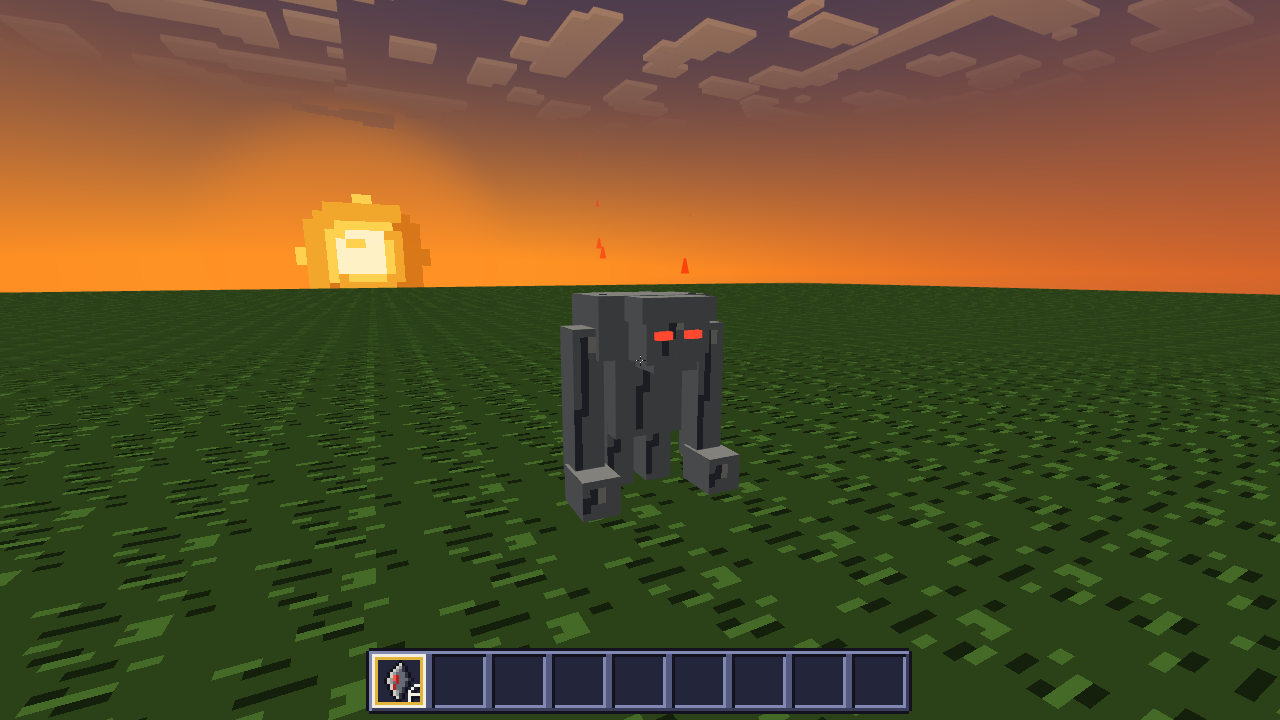
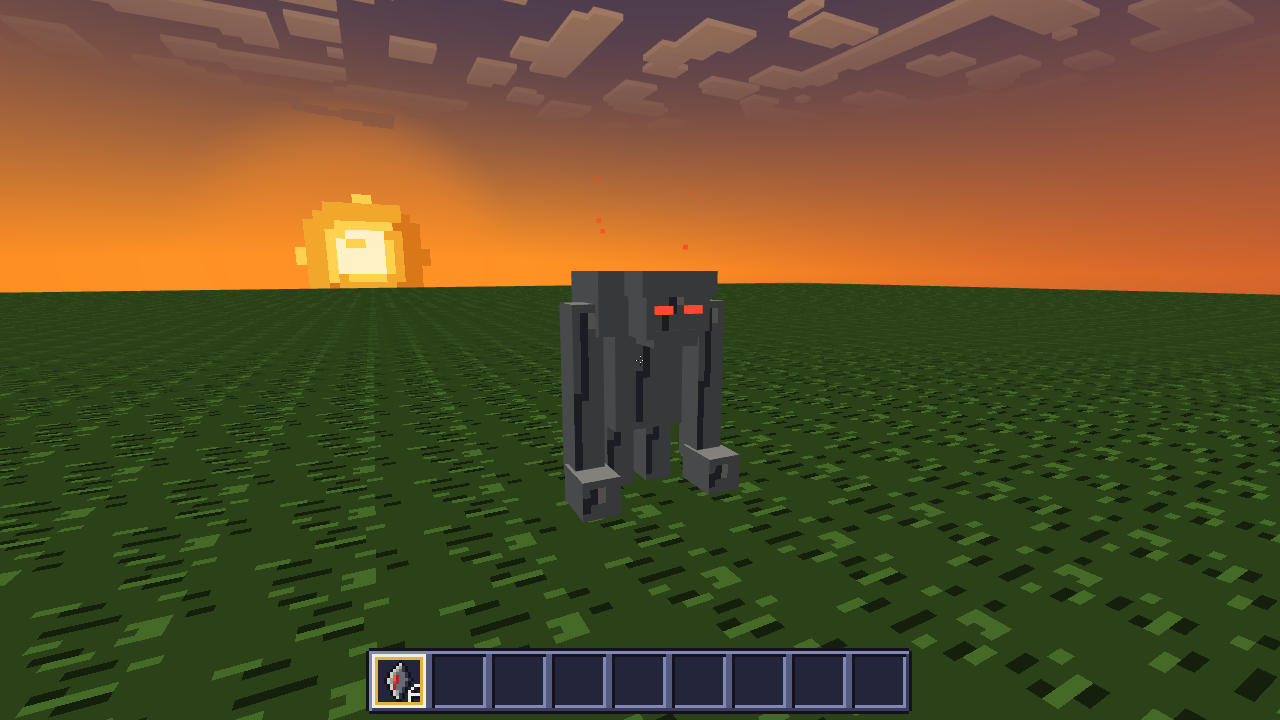
M13h: make Cinderwraith taller and brighten square embers

diff --git a/src/entity/mobs/cinderwraith.ts b/src/entity/mobs/cinderwraith.ts
@@ -30,9 +30,9 @@ const DEG = Math.PI / 180;
 const arm = (name: string, x: number): PartSpec => ({
   name,
   parent: 'body',
-  pivot: [x + 2, 23, 0],
+  pivot: [x + 2, 26, 0],
   cubes: [
-    { from: [x, 3, -1], size: [4, 20, 5] },
+    { from: [x, 3, -1], size: [4, 23, 5] },
     { from: [x - 0.5, 0, 1], size: [5, 5, 7] },
   ],
 });
@@ -42,37 +42,37 @@ export const CINDER_MODEL = buildModel({
   parts: [
     {
       name: 'body',
-      pivot: [0, 10, -2],
+      pivot: [0, 11, -2],
       cubes: [
-        { from: [-5, 8, -6], size: [10, 13, 9] },
-        { from: [-8, 19, -5], size: [16, 8, 10] },
-        { from: [-5, 23, -7], size: [10, 4, 3] },
+        { from: [-5, 9, -6], size: [10, 15, 9] },
+        { from: [-8, 22, -5], size: [16, 8, 10] },
+        { from: [-5, 26, -7], size: [10, 4, 3] },
       ],
     },
     {
       name: 'head',
       parent: 'body',
-      pivot: [0, 22, 5],
+      pivot: [0, 25, 5],
       cubes: [
-        { from: [-4, 19, 3], size: [8, 7, 7] },
-        { from: [-5, 24, 6], size: [10, 3, 5] },
-        { from: [-3, 18, 5], size: [6, 2, 5] },
+        { from: [-4, 22, 3], size: [8, 7, 7] },
+        { from: [-5, 27, 6], size: [10, 3, 5] },
+        { from: [-3, 21, 5], size: [6, 2, 5] },
       ],
     },
     {
       name: 'eyes',
       parent: 'head',
-      pivot: [0, 22, 10],
+      pivot: [0, 25, 10],
       emissive: true,
       cubes: [
-        { from: [-3, 22, 10], size: [2, 1, 1] },
-        { from: [1, 22, 10], size: [2, 1, 1] },
+        { from: [-3, 25, 10], size: [2, 1, 1] },
+        { from: [1, 25, 10], size: [2, 1, 1] },
       ],
     },
     arm('arm_r', -11),
     arm('arm_l', 7),
-    { name: 'leg_r', pivot: [-3, 11, -3], cubes: [{ from: [-5, 0, -6], size: [4, 11, 6] }] },
-    { name: 'leg_l', pivot: [3, 11, -3], cubes: [{ from: [1, 0, -6], size: [4, 11, 6] }] },
+    { name: 'leg_r', pivot: [-3, 13, -3], cubes: [{ from: [-5, 0, -6], size: [4, 13, 6] }] },
+    { name: 'leg_l', pivot: [3, 13, -3], cubes: [{ from: [1, 0, -6], size: [4, 13, 6] }] },
   ],
   walk: {
     maxSwing: 10 * DEG,
@@ -210,7 +210,7 @@ export class CinderSight {
         0,
         0,
         0,
-        [-4, 19, 3, 4, 26, 10],
+        [-4, 22, 3, 4, 29, 10],
         this.boxHit,
       ) ||
       this.boxHit.distance > 64
@@ -221,7 +221,7 @@ export class CinderSight {
 
   sees(player: MobPlayer): boolean {
     const p = this.mob.runtime.ecs.get(this.mob.id, TransformC)!.pos;
-    const origin: Vec3 = [p[0], p[1] + 1.4, p[2]];
+    const origin: Vec3 = [p[0], p[1] + 25.5 / 16, p[2]];
     const end: Vec3 = [player.pos[0], player.pos[1] + player.height * 0.85, player.pos[2]];
     const d = vec3.distance(origin, end);
     return !this.ray.cast(
@@ -294,7 +294,7 @@ export const CINDER_DEFINITION: CreatureDefinition = {
   category: 'hostile',
   health: 30,
   width: 0.95,
-  height: 1.75,
+  height: 1.95,
   speed: 0.14,
   model: () => CINDERWRAITH,
   goals: (mob) => [
@@ -313,7 +313,7 @@ export const CINDER_DEFINITION: CreatureDefinition = {
     const forward = 0.0625;
     const spark: Vec3 = [
       t.pos[0] + Math.sin(t.yaw) * side + Math.cos(t.yaw) * forward,
-      t.pos[1] + 27 / 16,
+      t.pos[1] + 30 / 16,
       t.pos[2] - Math.cos(t.yaw) * side + Math.sin(t.yaw) * forward,
     ];
     ctx.particles.ember(id, spark, ctx.random);

diff --git a/tests/unit/m13h-particles.test.ts b/tests/unit/m13h-particles.test.ts
@@ -11,7 +11,7 @@ import { BreakParticles } from '../../src/render/particles';
 import type { GLWrapper } from '../../src/render/gl';
 import type { PlayerController } from '../../src/engine/player-controller';
 
-it('M13h batches red tapered embers with alpha fading and restores blending', () => {
+it('M13h batches small bright square embers with alpha fading and restores blending', () => {
   const tiles = new Map<string, Uint8Array>();
   for (const [id, gen] of Object.entries(textureGenerators)) {
     const tile = gen(42);
@@ -47,16 +47,21 @@ it('M13h batches red tapered embers with alpha fading and restores blending', ()
     camera: { yaw: 0, pitch: 0 },
     renderAlpha: 1,
   } as unknown as PlayerController;
-  particles.ember(1, [0.5, 65, 0.5], () => 0.5);
+  // Compare the square near the origin so float32 world-coordinate rounding does not skew its edges.
+  particles.ember(1, [0.5, 0.5, 0.5], () => 0.5);
   expect(renderer.render(controller, mat4.create(), {} as WebGLTexture, 0)).toBe(1);
   expect(draw).toHaveBeenCalledTimes(1);
   expect(draw.mock.calls[0]![2]).toBe(6);
   const data = calls.bufferSubData!.mock.calls[0]![2] as Float32Array;
   const young = data.slice(0, 42);
   expect(young[6]).toBe(-1);
-  // Top narrows to a flame tip and the red shader uses the life fraction as opacity.
-  expect(Math.abs(young[9]! - young[16]!)).toBeLessThan(Math.abs(young[2]! - young[30]!));
-  expect(FS).toContain('vec4(1.0,0.08+0.16*v_light,0.025,v_light)');
+  // All four edges stay equal; the smaller square retains a bright, smooth fade.
+  const width = Math.abs(young[9]! - young[16]!);
+  expect(width).toBeCloseTo(Math.abs(young[2]! - young[30]!), 6);
+  expect(width).toBeCloseTo(Math.abs(young[8]! - young[1]!), 6);
+  expect(width).toBeLessThan(0.05);
+  expect(young[5]).toBeGreaterThan(0.95);
+  expect(FS).toContain('vec4(1.0,0.28,0.12,v_light)');
   for (let n = 0; n < 8; n++) particles.tick();
   renderer.render(controller, mat4.create(), {} as WebGLTexture, 0);
   expect(data[5]).toBeLessThan(young[5]!);

diff --git a/src/render/drops.ts b/src/render/drops.ts
@@ -20,7 +20,7 @@ void main(){v_uv=a_uv;v_light=a_light;v_cutoff=a_cutoff;gl_Position=u_vp*vec4(a_
 export const FS = `#version 300 es
 precision highp float;
 in vec2 v_uv;in float v_light;flat in float v_cutoff;uniform sampler2D u_atlas;out vec4 color;
-void main(){if(v_cutoff<0.0){color=vec4(1.0,0.08+0.16*v_light,0.025,v_light);return;}vec4 tex=texture(u_atlas,v_uv);if(tex.a<v_cutoff)discard;color=vec4(tex.rgb*v_light,1.0);}`;
+void main(){if(v_cutoff<0.0){color=vec4(1.0,0.28,0.12,v_light);return;}vec4 tex=texture(u_atlas,v_uv);if(tex.a<v_cutoff)discard;color=vec4(tex.rgb*v_light,1.0);}`;
 export const FACES: readonly BlockFaceDirection[] = [
   'east',
   'west',
@@ -319,9 +319,19 @@ export class DropRenderer {
           for (let t = 0; t < 6; t++) {
             const corner = INDICES[t]!;
             const top = corner === 1 || corner === 2;
-            const sx = (corner < 2 ? -1 : 1) * (top ? 0.012 : 0.045) * fade;
-            const sy = (top ? 0.12 : -0.045) * fade;
-            this.vertex(x + rx * sx + ux * sy, y + uy * sy, z + rz * sx + uz * sy, 0, 0, fade, -1);
+            const half = 0.022 * (0.6 + 0.4 * fade);
+            const sx = (corner < 2 ? -1 : 1) * half;
+            const sy = (top ? 1 : -1) * half;
+            // A small, hot red square stays bright while drifting, then fades smoothly.
+            this.vertex(
+              x + rx * sx + ux * sy,
+              y + uy * sy,
+              z + rz * sx + uz * sy,
+              0,
+              0,
+              Math.sqrt(fade),
+              -1,
+            );
           }
           continue;
         }

diff --git a/tests/unit/m13h-cinderwraith.test.ts b/tests/unit/m13h-cinderwraith.test.ts
@@ -76,7 +76,7 @@ function headPoint(s: ReturnType<typeof setup>): Vec3 {
   computePose(s.ecs, s.id, 1, pose);
   const p = vec3.transformMat4(
     vec3.create(),
-    [0, 22.5, 10],
+    [0, 25.5, 10],
     pose.subarray(16, 32) as unknown as mat4,
   );
   return [p[0]!, p[1]!, p[2]!];
@@ -102,6 +102,7 @@ describe('M13h registration, art and drops', () => {
     expect(s.ecs.get(s.id, HealthC)!.current).toBe(30);
     expect(s.ecs.get(s.id, MobC)!.category).toBe('hostile');
     expect(s.ecs.get(s.id, BodyC)!.width).toBeLessThanOrEqual(0.95);
+    expect(s.ecs.get(s.id, BodyC)!.height).toBe(1.95);
     expect(s.ecs.get(s.id, BodyC)!.height).toBeLessThanOrEqual(2);
     expect(() => validateModel(CINDER_MODEL)).not.toThrow();
     expect(spawnRules.rules.some((rule) => rule.type === CINDERWRAITH)).toBe(false);

diff --git a/tests/e2e/m13h.spec.ts b/tests/e2e/m13h.spec.ts
@@ -46,7 +46,7 @@ async function lookAtEyes(page: Page, id: number) {
       dz = z - p.pos[2];
     api.look!(
       Math.atan2(dz, dx),
-      Math.atan2(mob.pos[1] + 22.5 / 16 - (p.pos[1] + 1.62), Math.hypot(dx, dz)),
+      Math.atan2(mob.pos[1] + 25.5 / 16 - (p.pos[1] + 1.62), Math.hypot(dx, dz)),
     );
   }, id);
 }

diff --git a/progress/M13h.md b/progress/M13h.md
@@ -4,10 +4,11 @@ Status: incomplete
 Depends on: M13f (plus M13c/M13d and M13e's creature kit, present on the fetched base)
 Full verify: PR CI
 
-Local implementation and verification are complete. Owner publish approval and PR CI are pending. Status becomes verified only after green PR CI.
+Local implementation and local verification are complete, including the owner's visual revision. Owner publish approval and PR CI are pending. Status becomes verified only after green PR CI.
 
-Quick verify (`MILESTONE=M13 npm run verify:quick`): typecheck ✓ · lint ✓ (0 errors, 2 existing warnings) · placeholders ✓ · unit 1124 passed (128 files) · M13 e2e 11 passed (1.4m).
-Touched-milestone e2e (`m06`, `m06b`, `m07`, `m07b`, `m09a`, `m09b`, `m09c`, `m10b`, `m10c`, `m11`, `m11b`, no retries): 53 passed (9.9m).
+Latest quick verify (`MILESTONE=M13 npm run verify:quick`): typecheck ✓ · lint ✓ (0 errors, 2 existing warnings) · placeholders ✓ · unit 1124 passed (128 files) · M13 e2e 11 passed (1.8m).
+Latest particle-rendering e2e (`m07b`, no retries): 4 passed (46.9s).
+Additional integration coverage before the visual revision (`m06`, `m06b`, `m07`, `m07b`, `m09a`, `m09b`, `m09c`, `m10b`, `m10c`, `m11`, `m11b`, no retries): 53 passed (9.9m). The visual revision changes only the Cinderwraith model/behavior heights and the ember branch of the particle pass; those are covered again by the latest M13 and M07b runs.
 M13a has no separate e2e spec; its existing rendering unit tests ran in quick verify, alongside the new emission regressions. The shared Playwright fixture passed its console, request, missing-texture and WebGL error checks.
 The final Cinderwraith e2e run recorded gaze damage at tick 61 (player health 16) and a hurt teleport of 4.12617968101245 blocks to `[1.4874, 65, 4.5]`.
 
@@ -17,13 +18,13 @@ The final Cinderwraith e2e run recorded gaze damage at tick 61 (player health 16
 - [x] Hitting a neutral Cinderwraith provokes it and triggers a teleport of at least four blocks onto solid support with two free air blocks → `tests/e2e/m13h.spec.ts` › "M13h: hitting a neutral Cinderwraith provokes it and teleports at least four blocks to a safe spot".
 - [x] Registration, health, category, collision bounds, model/skin, drops, item texture/icon, gaze rejection (body, away, wall, range), anger expiry, seeded teleport safety, cooldown and lazy installation → `tests/unit/m13h-cinderwraith.test.ts`.
 - [x] Only the eye parts glow; all existing creature models retain their lighting and every entity takes exactly one draw → `tests/unit/m13h-render.test.ts`.
-- [x] Embers are capped, rise, expire, burst at both teleport ends, taper, fade and use the existing particle batch → `tests/unit/m13h-cinderwraith.test.ts` and `tests/unit/m13h-particles.test.ts`.
+- [x] Embers are capped, rise, expire, burst at both teleport ends, stay square, fade and use the existing particle batch → `tests/unit/m13h-cinderwraith.test.ts` and `tests/unit/m13h-particles.test.ts`.
 
 ## Screenshots (docs/screenshots/M13h/)
 
-Both images were generated by the committed Playwright spec and opened for review.
+Both revised images were generated by the committed Playwright spec and opened for review. The character is taller and its embers are smaller, brighter squares.
 
-- `m13-cinderwraith.png`: a broad grey stone creature on grass at sunset, with a low head under a heavy brow, two bright red eyes, long arms resting on large knuckles, dark stepped cracks, and red tapered sparks rising above its shoulders. The sky is orange with the sun at the left. The grey body remains shaded while the eyes and sparks are bright. No magenta textures. Its stocky stone silhouette differs from the bark-and-cloth Hollow in M13f's lineup, which was also opened for comparison.
+- `m13-cinderwraith.png`: a broad grey stone creature on grass at sunset, with a low head under a heavy brow, two bright red eyes, long arms resting on large knuckles, dark stepped cracks, and small bright red square sparks rising above its shoulders. The sky is orange with the sun at the left. The grey body remains shaded while the eyes and sparks are bright. No magenta textures. Its stocky stone silhouette differs from the bark-and-cloth Hollow in M13f's lineup, which was also opened for comparison.
 - `m13-cinderwraith-daylight.png`: a closer view under a blue sky, showing flat ash-grey surfaces, pale upper edges, dark cracks on the torso and arms, the heavy brow, short legs and large knuckles. Red eyes and rising sparks are visible. A Cinder Shard icon appears in the hotbar.
 - Cinder Shard art review: the generated M09a sprite sheet was also opened. Its tile depicts an angular grey stone splinter with a short red seam, a pale top-left rim and a dark edge. It reads without a label and has no visible seams in its 3×3 repeat; the transparent border separates the repeated shapes cleanly.
 
@@ -31,7 +32,7 @@ Both images were generated by the committed Playwright spec and opened for revie
 
 - `src/entity/mobs/cinderwraith.ts`: original model and skin, neutral targeting, posed-head gaze test, retaliation, anger timeout, A* melee pursuit, safe teleport and drops, registered through M13e's creature kit.
 - Per-part emission in the existing entity renderer. A baked vertex flag bypasses world light and face shading only on the eyes. Whole-model emission, used by Glimmer Moths, retains its existing behavior.
-- Red embers in the existing particle pool and submission: shoulder sparks and teleport bursts, upward drift, tapered shape, shrinking and alpha fade. No extra global tick or frame system.
+- Red embers in the existing particle pool and submission: shoulder sparks and teleport bursts, upward drift, small square shape, shrinking and a brighter alpha fade. No extra global tick or frame system.
 - Cinder Shard material registry entry and a code-drawn chipped stone/red seam texture, reused by the automatic inventory icon sheet. No recipe and no block-state ID edits.
 - Fixed the new shard generator's seed variation: seam position and bend height now vary independently, satisfying M09a's existing seed checks. `tests/unit/m09a-registry.test.ts` is unchanged. The owner authorized fixes confined to new M13h code without further pauses.
 
@@ -63,3 +64,9 @@ Both images were generated by the committed Playwright spec and opened for revie
 - Cinder-specific targeting updates during goal selection, before melee continuation is checked. This lets calming stop navigation immediately without leaving melee with a vanished target.
 - Gaze scratch is allocated only when a Cinderwraith's goals are first built. Per-type particles run through its definition tick, so worlds without Cinderwraiths emit none and install no Cinderwraith system.
 - Teleport resets position interpolation, velocity and navigation; paths never interpolate across the jump. Landings are centered in a loaded column's air cell above full solid support.
+
+## Owner visual revision
+
+- Raised the shoulder ridge and head while lengthening the torso, arms and legs. The broad shoulder width and ground-level knuckles remain, with collision height 1.95 (below the original two-block maximum).
+- Updated the head gaze box, eye-height test aim, sight origin and shoulder spark emission points to match. The M13h particle unit test now checks equal square edges, smaller size and sustained brightness.
+- Replaced tapered embers with smaller square sparks, made their red colour hotter, and used a slower opacity fade so the small squares remain bright. Particle caps and batching are unchanged.

diff --git a/decisions/M13h-cinderwraith.md b/decisions/M13h-cinderwraith.md
@@ -3,9 +3,9 @@
 ## Owner decisions
 
 - Built with M13e's `registerCreature`, `buildModel`, `SkinPainter`, `PRIORITY` and `definition.drops`.
-- Original Appendix B design: hunched ash-grey cinder stone, broad shoulders, long knuckle-walking arms, heavy brow, two glowing red eyes, and rising red embers. Flat, low-noise regions use 2–3 stone shades and deliberate stepped cracks (ART.md). Health 30; collision 0.95 × 1.75 blocks.
+- Original Appendix B design: hunched ash-grey cinder stone, broad shoulders, long knuckle-walking arms, heavy brow, two glowing red eyes, and rising red embers. Flat, low-noise regions use 2–3 stone shades and deliberate stepped cracks (ART.md). Health 30; collision 0.95 × 1.95 blocks.
 - Eyes alone use per-part emission. One additional baked vertex float selects full-bright lighting for those parts, in the same single draw. Legacy whole-model `emissive` still supplies white world light with the original face shading. Existing models default to zero part emission.
-- Embers reuse the existing particle pool and batch: red tapered sparks drift up, shrink and alpha-fade. At most 24 live sparks per Cinderwraith; teleport emits at departure and arrival. No separate ember system, pool, global scan or frame callback is installed.
+- Embers reuse the existing particle pool and batch: small bright red square sparks drift up, shrink and alpha-fade. At most 24 live sparks per Cinderwraith; teleport emits at departure and arrival. No separate ember system, pool, global scan or frame callback is installed.
 - Neutral until player damage or the player's look ray intersects the posed head box within 64 blocks. Cheap inverse-pose slab test precedes the voxel raycast. Only neutral Cinderwraiths within 64 blocks are gaze-tested. Angry mobs use M13c navigation/A* and melee, through the existing runtime's `hurtPlayer` hook and i-frames. Calm on player death, distance >64, or 600 ticks without clear sight.
 - Teleport uses `ctx.random`, a bounded safe-spot search, a 4–16 block displacement, loaded columns, full solid support and two air cells. Fluids and lava cannot be landing cells. Hurt triggers teleport; angry mobs also use it to close distance or recover after navigation failure. Attempts have an 80-tick cooldown, including failed searches.
 - No natural spawn rules. For M13g: category hostile (mob cap); dark areas, block light 0; rare (suggested weight 10 against Hollow 100); group size 1; all biomes.
@@ -31,3 +31,14 @@ seam variants, making seeds 12345 and 99999 identical. The generator now selects
 four deliberate seam shapes, varying both position and bend height. The owner
 authorized this fix in M13h's own code and clarified that further fixes confined
 to new M13h code need no pause. M09a's test remains unchanged.
+
+## Owner visual revision
+
+The owner requested a slightly taller character and smaller, brighter square embers.
+The shoulder ridge and head are three model pixels higher, with a longer torso,
+arms and legs; the broad shoulders and ground-level knuckles remain. Rest height
+is 30/16 blocks and collision height is 1.95, within the original two-block limit.
+Gaze bounds, eye aim height, sight origin and shoulder emission height move with
+the revised model. Embers are camera-facing squares with a maximum side of 0.044
+blocks, a hotter red colour and a square-root opacity curve that keeps them bright
+longer before they fade. They retain the existing pool, cap and single batch.
